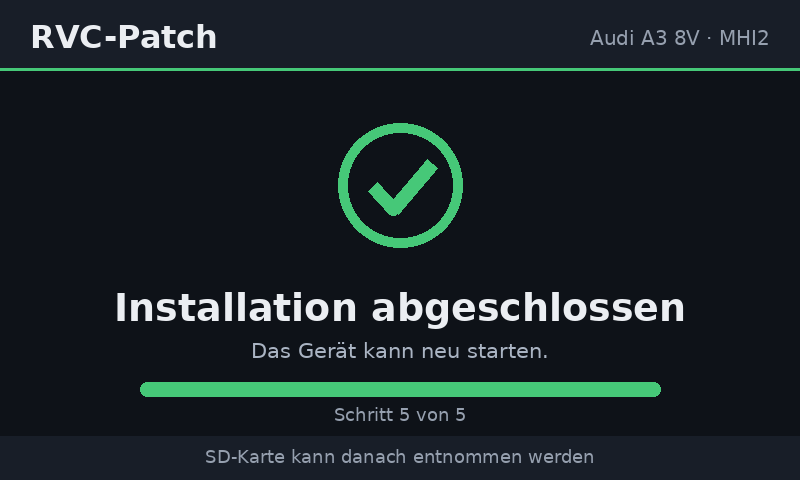
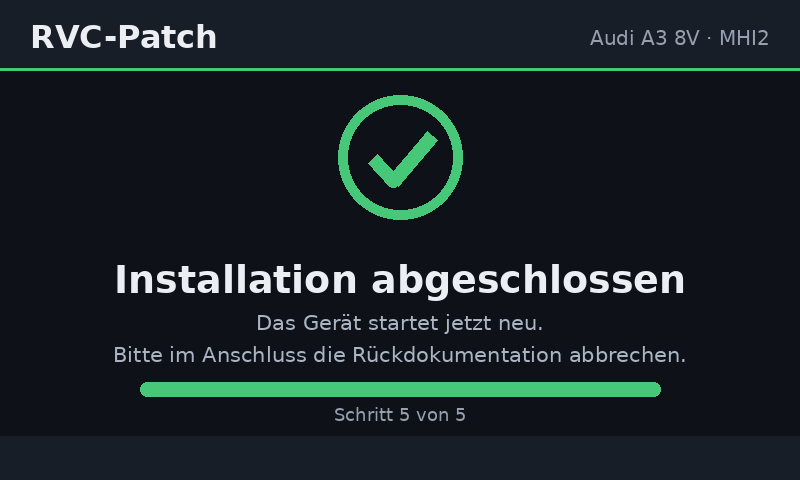
Add files via upload

Changed region(s): [[0.125, 0.1875, 0.875, 0.6875], [0.125, 0.7188, 0.8438, 0.7812], [0.25, 0.9375, 0.75, 0.9688]]

diff --git a/README.md b/README.md
@@ -13,6 +13,15 @@ Vibecoded with Claude
 FAT32 formatted SD Card needed
 
 
+## v0.09 (changes)
+
+- Status images: shorter black gap between two images. The helper calls no longer wait in fixed one-second steps, and after the first successfully displayed image the start-up wait is 1 s instead of 2 s. The time each image stays on screen is unchanged.
+
+## v0.08 (changes)
+
+- Verify: `cmp` is not available on the unit, so the copied files are now compared to the package files by checksum (sha1sum, otherwise cksum). On a mismatch the original files are restored and the installation is aborted. The method used is written to `rvcpatch.log`.
+- Success image: new text (the unit restarts, please cancel the rear view documentation afterwards).
+
 ## v0.07 (changes)
 
 - Status images: the library path for the display tool now also contains the graphics driver directories (the log of v0.06 showed a shader error). If the display tool exits or crashes, the screen is no longer switched (no black screen) and no further attempts are made in that run. The reason is written to `rvcpatch.log`.
